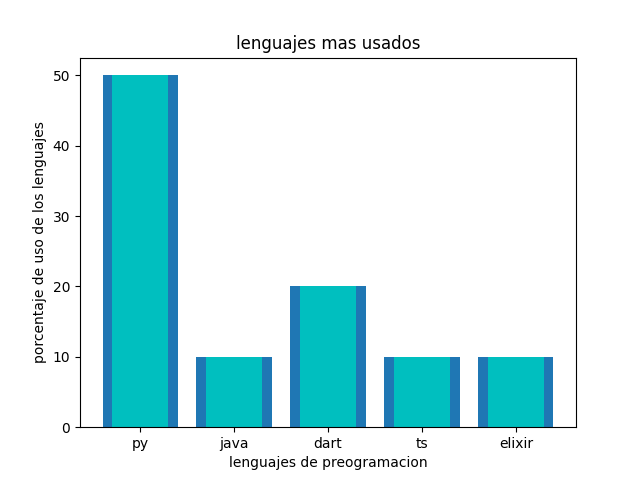
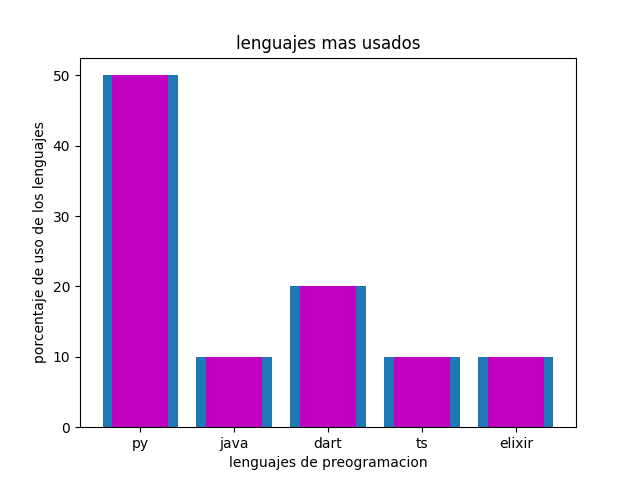
barras

diff --git a/clases/graficosBarras.py b/clases/graficosBarras.py
@@ -3,7 +3,7 @@ import matplotlib.pyplot as plt
 lenguajes = ['py', 'java', 'dart', 'ts', 'elixir']
 encuenta = [50,10,20,10,10]
 plt.bar(lenguajes,encuenta)
-plt.bar (lenguajes, encuenta, width = 0.6, color = 'c')
+plt.bar (lenguajes, encuenta, width = 0.6, color = 'm')
 ###########
 #titulo
 plt.title('lenguajes mas usados')
